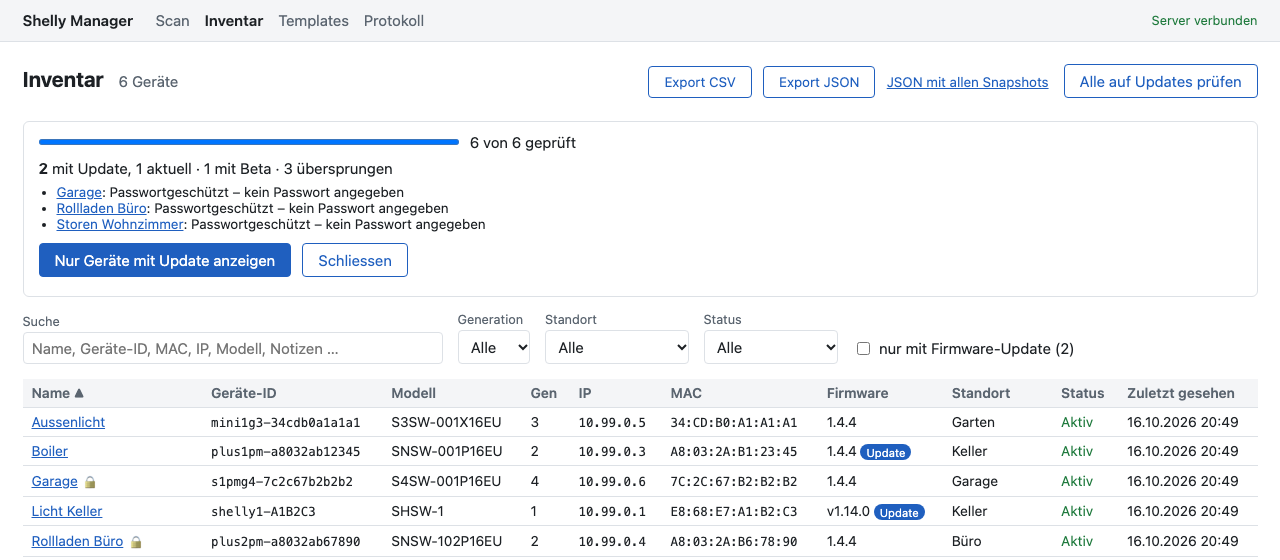
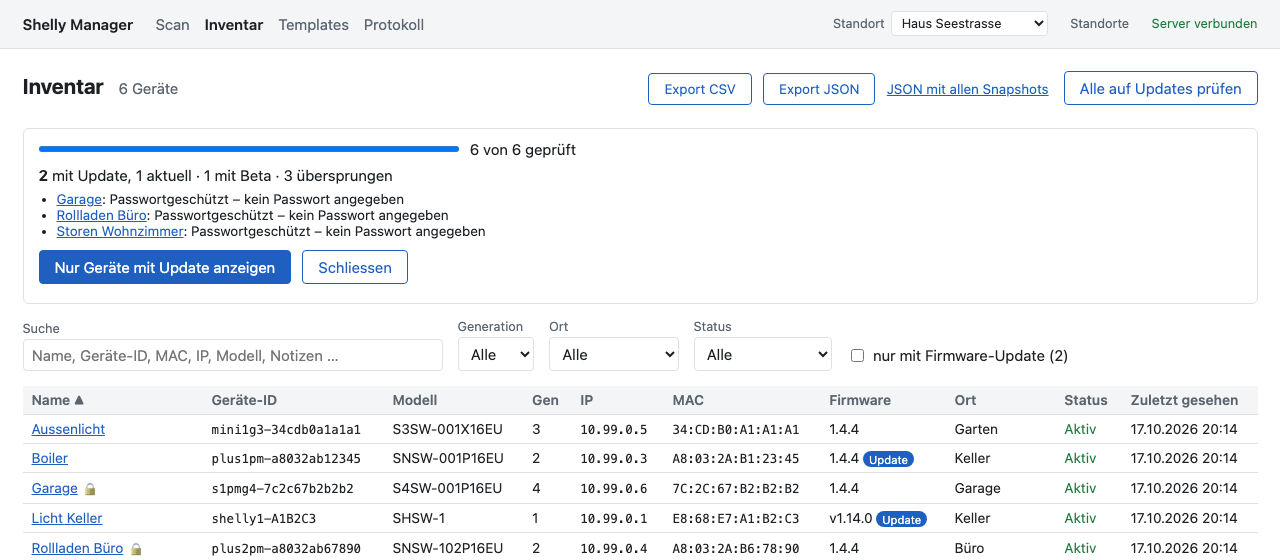
Doku: Screenshots mit Standorten und Netzwerk-Template; eigene Mock-Ports für Screenshots

diff --git a/apps/server/test/mock-shelly/cli.ts b/apps/server/test/mock-shelly/cli.ts
@@ -1,10 +1,11 @@
 // Starts the default mock fleet on fixed ports for manual testing:
 //   npm run mock -w apps/server
 // and run the server with SHELLY_HOST_MAP=10.99.0.0/24=127.0.0.1:18000 (see `npm run dev:mock`),
-// then scan 10.99.0.0/24 in the UI. 10.99.0.N maps to port 18000+N.
+// then scan 10.99.0.0/24 in the UI. 10.99.0.N maps to port 18000+N (base port: MOCK_BASE_PORT).
 import { DEFAULT_FLEET, startMockDevice, type MockDevice, type MockDeviceSpec } from './index.js';
 
-const BASE_PORT = 18000;
+// MOCK_BASE_PORT lets a second fleet run next to `npm run dev:mock` (e.g. for the docs screenshots).
+const BASE_PORT = Number(process.env['MOCK_BASE_PORT'] ?? 18000);
 const specs: MockDeviceSpec[] = [...DEFAULT_FLEET, { kind: 'hang' }, { kind: 'foreign' }];
 
 const devices: MockDevice[] = [];

diff --git a/docs/benutzerhandbuch.md b/docs/benutzerhandbuch.md
@@ -309,6 +309,8 @@ Netzmaske und optional Gateway und DNS an. SSID und WLAN-Passwort bleiben immer 
   als DHCP-Reservierung hinterlegen. Der Knopf erzeugt dafür eine CSV mit Name, Geräte-ID, MAC und IP der
   ausgewählten Geräte. Das ist robuster, weil ein Tippfehler im Router kein Gerät aussperrt.
 
+![Netzwerk-Template: geplante statische IPs pro Gerät, fortlaufend nach Ort und Name](img/template-netzwerk.png)
+
 > **Wichtig:** Falsche Netzwerkwerte (z.B. eine falsche Netzmaske) machen Geräte unerreichbar; dann hilft nur der
 > Werksreset am Gerät. Ein Netzwerk-Template **immer zuerst an einem Gerät** testen.
 
@@ -407,6 +409,8 @@ Standort hat sein **eigenes Inventar, eigene Templates und ein eigenes Protokoll
 - **Protokoll:** Jeder Eintrag gehört zum Standort, in dem das Gerät zum Zeitpunkt der Aktion war.
 - **Export:** CSV und JSON enthalten die Geräte des gewählten Standorts mit dem Standortnamen; die CSV hat dafür eine
   erste Spalte «Standort», das Gerätefeld heisst dort «Ort».
+
+![Standorte verwalten: Geräte und Templates pro Standort](img/standorte.png)
 
 > **Begriffe:** «Standort» ist das Haus oder der Kunde, «Ort» der Raum oder die Stelle im Haus (Keller, Garten …).
 

diff --git a/docs/entwicklung.md b/docs/entwicklung.md
@@ -155,9 +155,9 @@ npm run build
 ```
 
 Das Skript startet Mock-Fleet und einen Server auf Port 3100 mit einer temporären Datenbank (`setup.sh` legt
-Beispieldaten an: Scans, Namen, Orte, ein Template, ein zweiter Standort). Dann steuert es Chrome im Headless-Modus über das
+Beispieldaten an: Scans, Namen, Orte, ein Template, ein Netzwerk-Template nur zur Vorschau, ein zweiter Standort). Dann steuert es Chrome im Headless-Modus über das
 DevTools-Protokoll (`shots.mjs`, ohne zusätzliche Abhängigkeiten) und speichert die Bilder in 1280 px Breite.
-Voraussetzungen: Google Chrome (anderer Pfad über `CHROME=…`) sowie freie Ports 3100 und 18001–18008.
+Voraussetzungen: Google Chrome (anderer Pfad über `CHROME=…`) sowie freie Ports 3100 und 28001–28008 (eigene Mock-Fleet über `MOCK_BASE_PORT`, ein laufendes `npm run dev:mock` bleibt unberührt).
 Echte Geräte und `apps/server/data` werden nicht berührt. Nach UI-Änderungen das Skript erneut laufen lassen und die
 Bilder mitcommitten.
 
